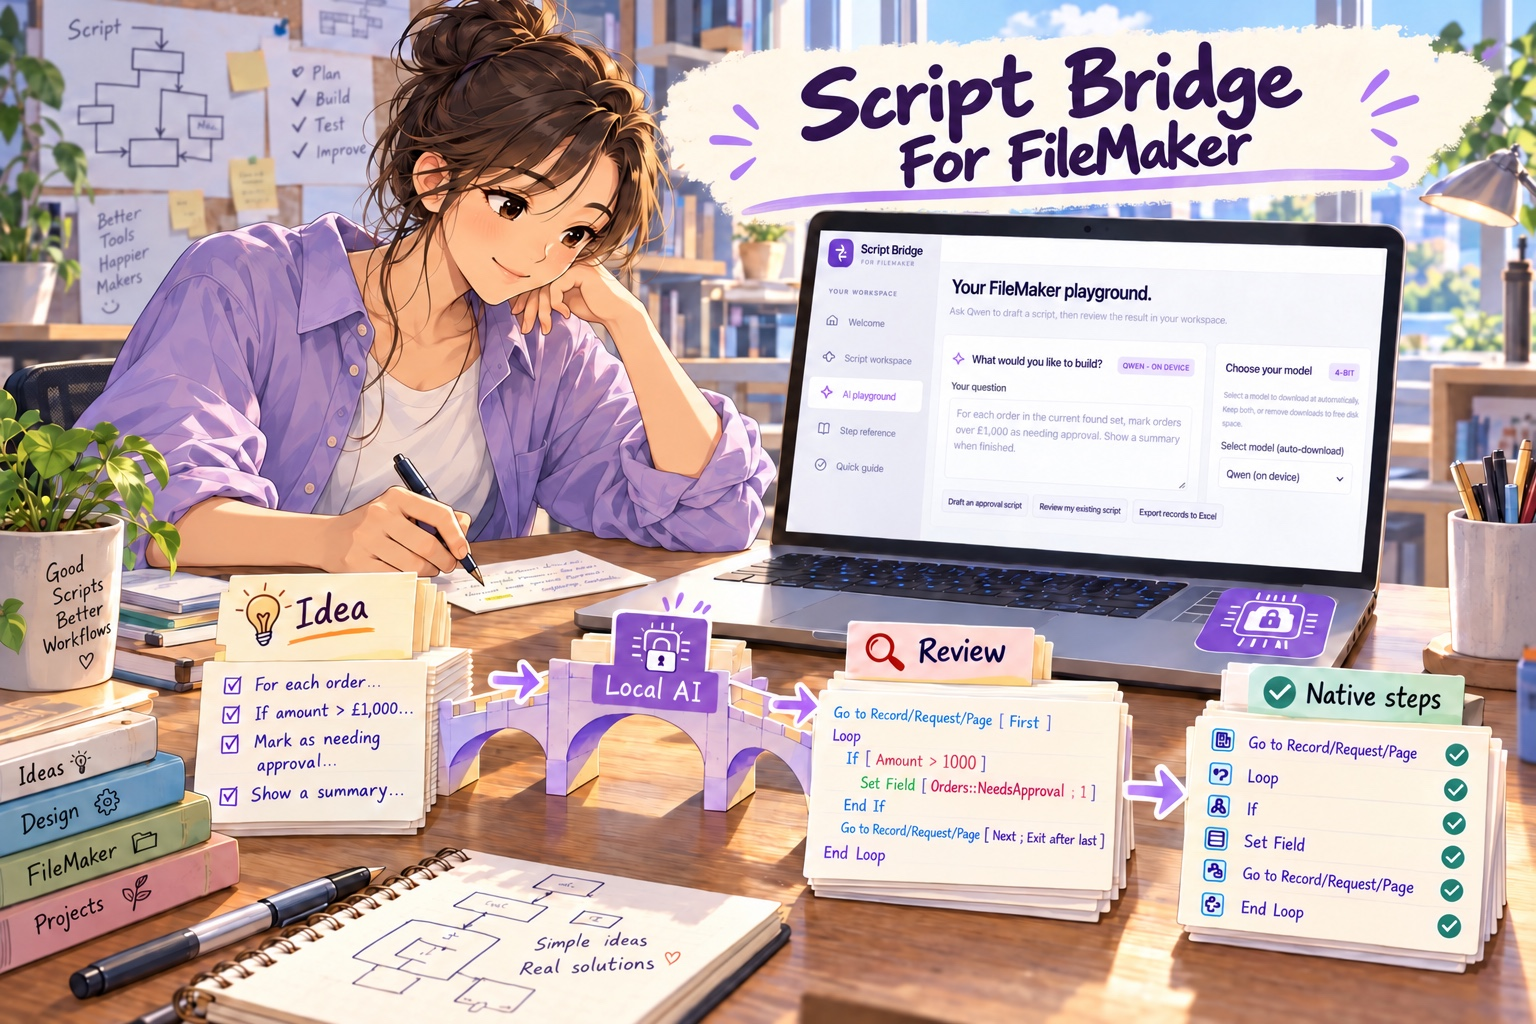
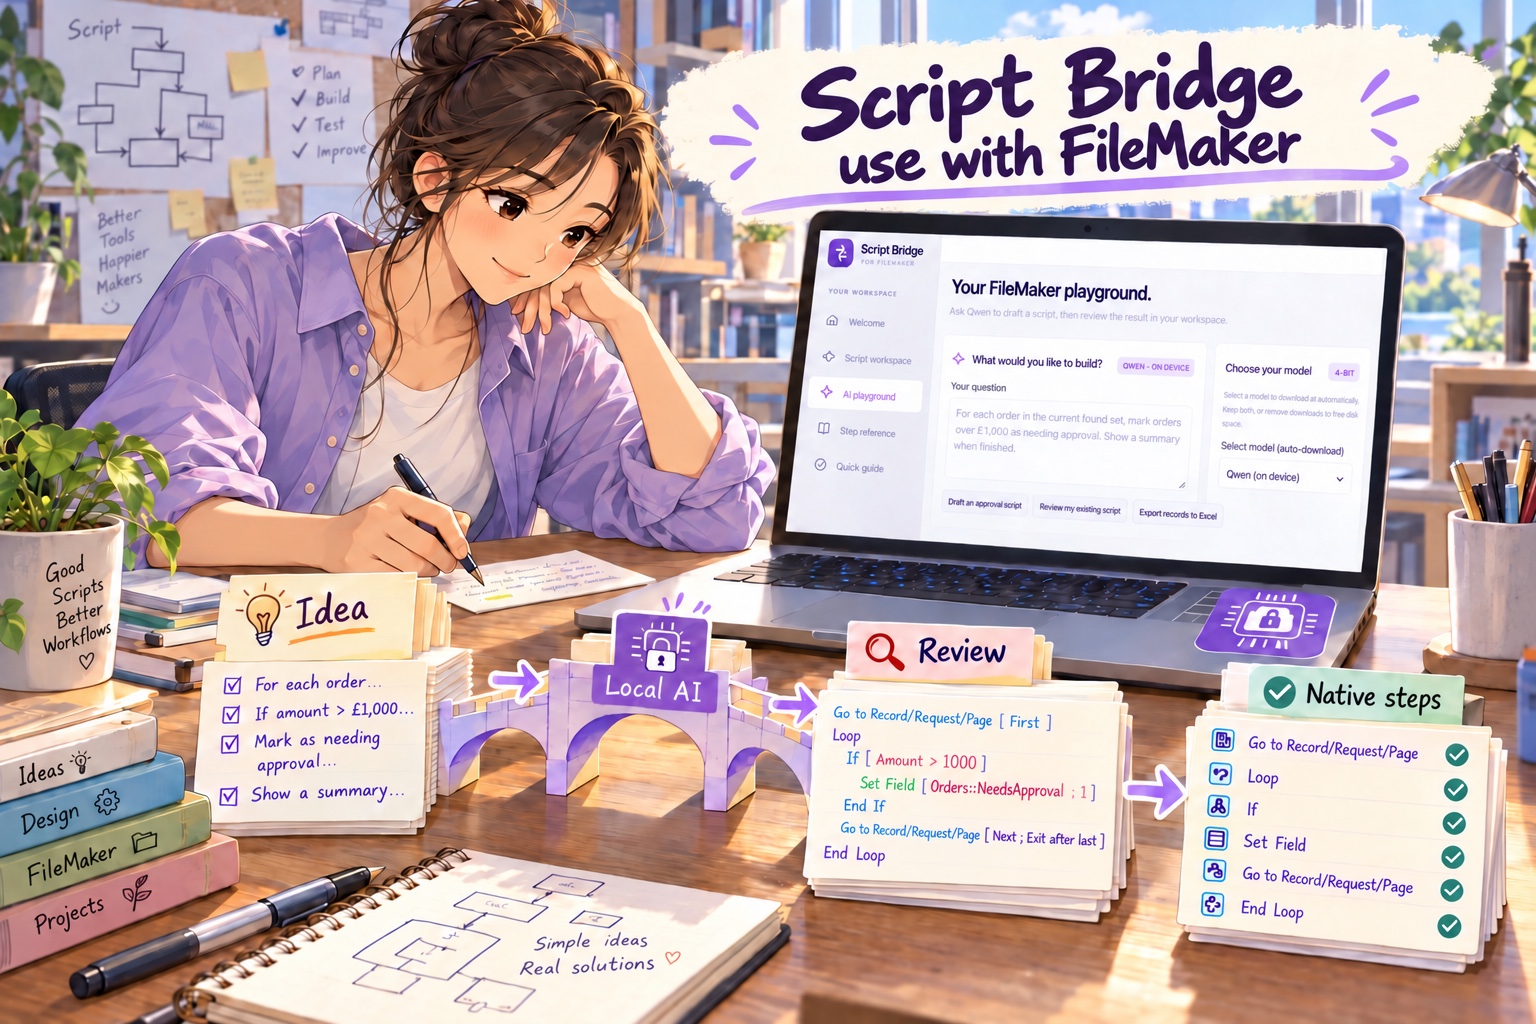
Update Script Bridge artwork title to use with FileMaker

diff --git a/index.html b/index.html
@@ -14,7 +14,7 @@
 <div class="focus-strip wrap"><p>Technology should make room<br><strong>for the things we enjoy.</strong></p><span>01 <b>Build something useful</b></span><span>02 <b>Make work visible</b></span><span>03 <b>Find a better balance</b></span></div>
 <section class="section wrap" id="projects" aria-labelledby="projects-title"><div class="section-heading"><div><p class="eyebrow">SIDE QUESTS / 01</p><h2 id="projects-title">Things I enjoy building.</h2></div><p>Language, everyday problems and a little experimentation. These are the projects I make for the pleasure of figuring things out.</p></div><div class="project-grid">
 <article class="project-card" id="anicanto"><a class="project-visual canto-visual" href="https://github.com/samuelkcc/AniCanto/blob/main/README.en.md" target="_blank" rel="noopener noreferrer" aria-label="Explore AniCanto on GitHub"><img src="assets/anicanto-original-cover.jpg" width="1536" height="1024" loading="lazy" alt="AniCanto concept artwork showing anime dialogue translated from Japanese into Cantonese, with voice tracks and subtitles against a Hong Kong backdrop."><span class="art-caption">ANICANTO · CONCEPT ARTWORK</span></a><div class="project-copy"><p class="project-kicker">01 / CREATIVE AI</p><h3><a href="https://github.com/samuelkcc/AniCanto/blob/main/README.en.md" target="_blank" rel="noopener noreferrer">AniCanto <span aria-hidden="true">↗</span></a></h3><p>Local AI dubbing for Japanese animation, in Hong Kong Cantonese, English or both. Speech recognition, translation, voices and selectable subtitles come together in one desktop workflow. After downloading the models, processing runs on your computer without a cloud model.</p><p class="project-insight"><b>Why it matters to me</b>Bringing the sound and personality of Hong Kong Cantonese into a creative hobby I enjoy.</p><div class="tags"><span>Speech &amp; translation</span><span>Desktop app</span><span>Local LLM</span><span>Public beta</span></div><details class="project-details" id="anicanto-details"><summary>Inside the project <span aria-hidden="true">+</span></summary><p>Japanese dialogue → transcription → Cantonese / English script → voice and subtitle tracks. Translations and generated voices need listening and review.</p><p><b>Public beta · Available now.</b> Download the app and explore the source on GitHub.</p></details><a class="project-link" href="https://github.com/samuelkcc/AniCanto/blob/main/README.en.md" target="_blank" rel="noopener noreferrer">Explore the project <span aria-hidden="true">↗</span></a></div></article>
-<article class="project-card"><a class="project-visual bridge-visual" href="https://github.com/samuelkcc/script-bridge" target="_blank" rel="noopener noreferrer" aria-label="Explore Script Bridge use with FileMaker on GitHub"><img src="assets/script-bridge-cover.jpg" width="1536" height="1024" loading="lazy" alt="An illustrated coding studio with the Qwen AI playground on a laptop and a paper bridge linking an idea, a reviewed draft and native FileMaker steps."><span class="art-caption">SCRIPT BRIDGE USE WITH FILEMAKER · CONCEPT ARTWORK</span></a><div class="project-copy"><p class="project-kicker">02 / DEVELOPER TOOLS</p><h3><a href="https://github.com/samuelkcc/script-bridge" target="_blank" rel="noopener noreferrer">Script Bridge use with FileMaker <span aria-hidden="true">↗</span></a></h3><p>Script Bridge is a cross-platform app for Mac and Windows, for use with FileMaker. Draft scripts with optional on-device Qwen AI, or bring in text from another AI tool. Review and validate the draft, then convert it into native FileMaker clipboard steps before you paste.</p><p class="project-insight"><b>Why it matters to me</b>Spending more time shaping a useful script and less time copying the same steps by hand.</p><div class="tags"><span>On-device AI</span><span>Local conversion</span></div><a class="project-link" href="https://github.com/samuelkcc/script-bridge" target="_blank" rel="noopener noreferrer">Explore the project <span aria-hidden="true">↗</span></a></div></article>
+<article class="project-card"><a class="project-visual bridge-visual" href="https://github.com/samuelkcc/script-bridge" target="_blank" rel="noopener noreferrer" aria-label="Explore Script Bridge use with FileMaker on GitHub"><img src="assets/script-bridge-cover.jpg?v=20261021-use-with-title" width="1536" height="1024" loading="lazy" alt="An illustrated coding studio with the Qwen AI playground on a laptop and a paper bridge linking an idea, a reviewed draft and native FileMaker steps."><span class="art-caption">SCRIPT BRIDGE USE WITH FILEMAKER · CONCEPT ARTWORK</span></a><div class="project-copy"><p class="project-kicker">02 / DEVELOPER TOOLS</p><h3><a href="https://github.com/samuelkcc/script-bridge" target="_blank" rel="noopener noreferrer">Script Bridge use with FileMaker <span aria-hidden="true">↗</span></a></h3><p>Script Bridge is a cross-platform app for Mac and Windows, for use with FileMaker. Draft scripts with optional on-device Qwen AI, or bring in text from another AI tool. Review and validate the draft, then convert it into native FileMaker clipboard steps before you paste.</p><p class="project-insight"><b>Why it matters to me</b>Spending more time shaping a useful script and less time copying the same steps by hand.</p><div class="tags"><span>On-device AI</span><span>Local conversion</span></div><a class="project-link" href="https://github.com/samuelkcc/script-bridge" target="_blank" rel="noopener noreferrer">Explore the project <span aria-hidden="true">↗</span></a></div></article>
 <article class="project-card"><a class="project-visual energy-visual" href="https://github.com/samuelkcc/octopus-foxess-smart-charging" target="_blank" rel="noopener noreferrer" aria-label="Explore Octopus and FoxESS Smart Charging on GitHub"><img src="assets/energy-illustrated-cover.jpg" width="1536" height="1024" loading="lazy" alt="Octopus and FoxESS project artwork showing a Raspberry Pi automation server, server configuration on a laptop, and the mobile web dashboard on a phone."><span class="art-caption">SMART CHARGING · CONCEPT ARTWORK</span></a><div class="project-copy"><p class="project-kicker">03 / CONNECTED ENERGY</p><h3><a href="https://github.com/samuelkcc/octopus-foxess-smart-charging" target="_blank" rel="noopener noreferrer">Smarter home charging <span aria-hidden="true">↗</span></a></h3><p>Connecting Intelligent Octopus Go with FoxESS so EV charging doesn’t drain the home battery. A Raspberry Pi server keeps the automation running, with a mobile web dashboard for schedules and live energy data. A standalone web edition is available too.</p><p class="project-insight"><b>Why it matters to me</b>Getting the systems at home to work together, with less manual checking and a clearer view of what is happening.</p><div class="tags"><span>Raspberry Pi server</span><span>Mobile web app</span></div><a class="project-link" href="https://github.com/samuelkcc/octopus-foxess-smart-charging" target="_blank" rel="noopener noreferrer">Explore the project <span aria-hidden="true">↗</span></a></div></article>
 </div><a class="all-projects text-link" href="https://github.com/samuelkcc" target="_blank" rel="noopener noreferrer">More experiments on GitHub <span aria-hidden="true">↗</span></a></section>
 <section class="work-section" id="work" aria-labelledby="work-title"><div class="wrap section"><div class="section-heading"><div><p class="eyebrow">HOW I BRING THAT CURIOSITY TO WORK / 02</p><h2 id="work-title">Better tools.<br>A better working day.</h2></div><p>Virtual Office is the foundation of my work with AI. Its shared knowledge and virtual-colleague framework connect the tools below, helping each app support the task in context and keep work moving clearly.</p></div><p class="work-note"><span aria-hidden="true">◇</span> Real areas of work, described anonymously. Names and examples below are generalised; all demonstration data is fictional.</p><div class="office-foundation"><div><p class="eyebrow">The foundation behind the apps</p><h3>Virtual Office connects the knowledge and the colleagues.</h3></div><p>Every app embeds an AI colleague built on the Virtual Office framework, drawing on its shared knowledge and the current task. The interfaces serve different jobs; the colleague foundation connects them.</p></div><div class="case-explorer"><div class="case-tabs" role="tablist" aria-label="Explore work examples" aria-orientation="vertical"><button id="tab-office" class="case-tab" role="tab" aria-selected="true" aria-controls="case-panel" data-case="office"><span>01</span> Virtual Office <span aria-hidden="true">↗</span></button><button id="tab-data" class="case-tab" role="tab" aria-selected="false" aria-controls="case-panel" tabindex="-1" data-case="data"><span>02</span> Data explorer <span aria-hidden="true">↗</span></button><button id="tab-planning" class="case-tab" role="tab" aria-selected="false" aria-controls="case-panel" tabindex="-1" data-case="planning"><span>03</span> Project management <span aria-hidden="true">↗</span></button><button id="tab-onboarding" class="case-tab" role="tab" aria-selected="false" aria-controls="case-panel" tabindex="-1" data-case="onboarding"><span>04</span> Product onboarding assistant <span aria-hidden="true">↗</span></button><button id="tab-documents" class="case-tab" role="tab" aria-selected="false" aria-controls="case-panel" tabindex="-1" data-case="documents"><span>05</span> Document assistant <span aria-hidden="true">↗</span></button><button id="tab-fulfilment" class="case-tab" role="tab" aria-selected="false" aria-controls="case-panel" tabindex="-1" data-case="fulfilment"><span>06</span> Fulfilment assistant <span aria-hidden="true">↗</span></button><button id="tab-social" class="case-tab" role="tab" aria-selected="false" aria-controls="case-panel" tabindex="-1" data-case="social"><span>07</span> Social intelligence <span aria-hidden="true">↗</span></button><button id="tab-hybrid" class="case-tab" role="tab" aria-selected="false" aria-controls="case-panel" tabindex="-1" data-case="hybrid"><span>08</span> FileMaker &amp; APIs <span aria-hidden="true">↗</span></button></div>
